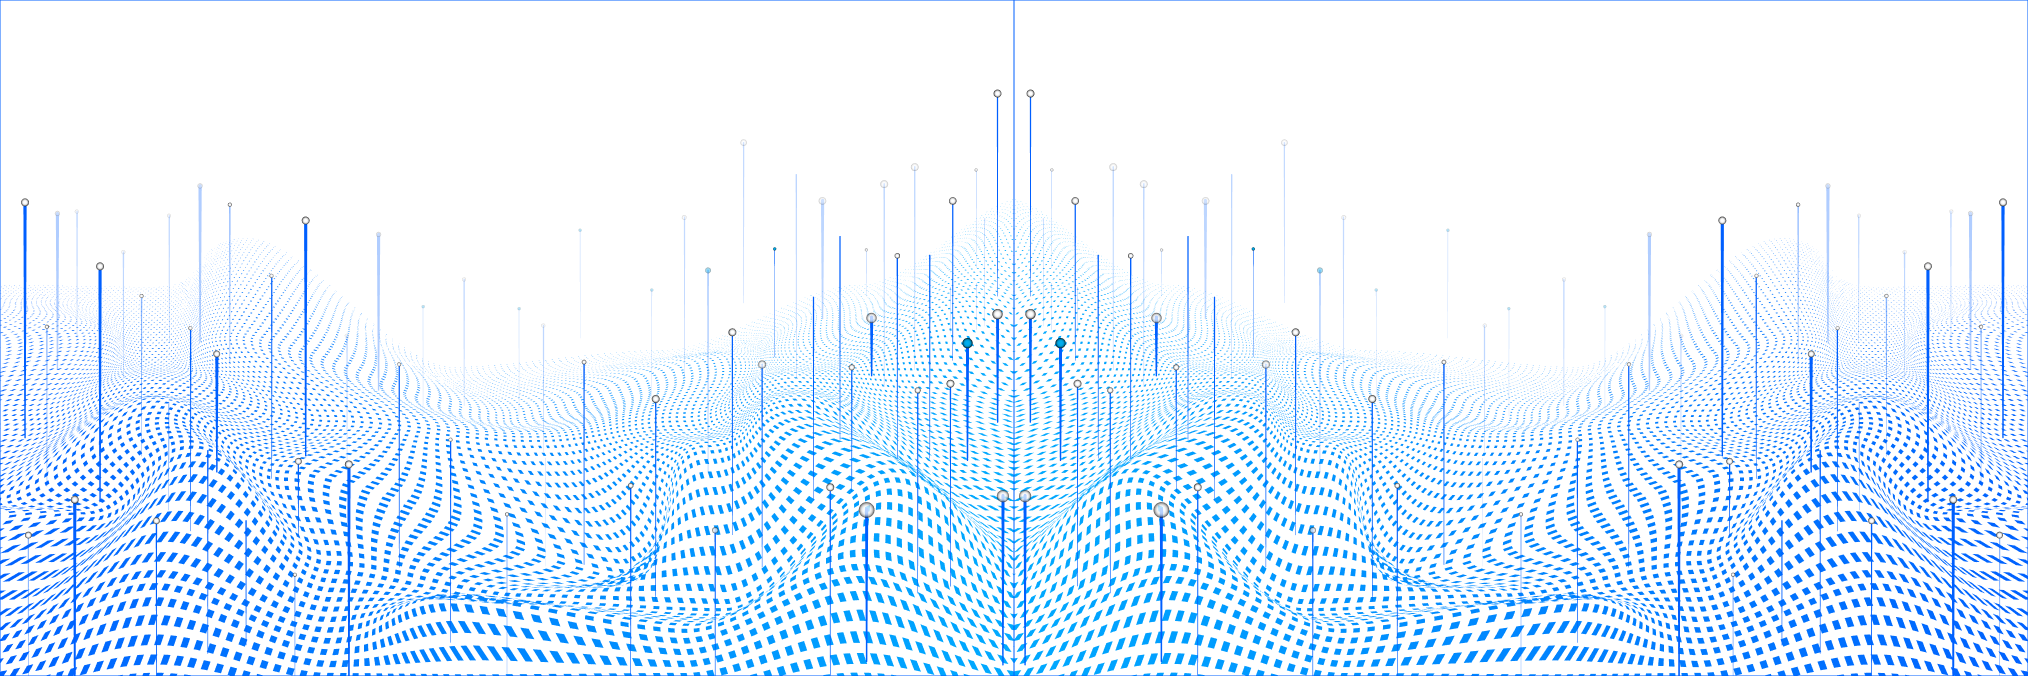
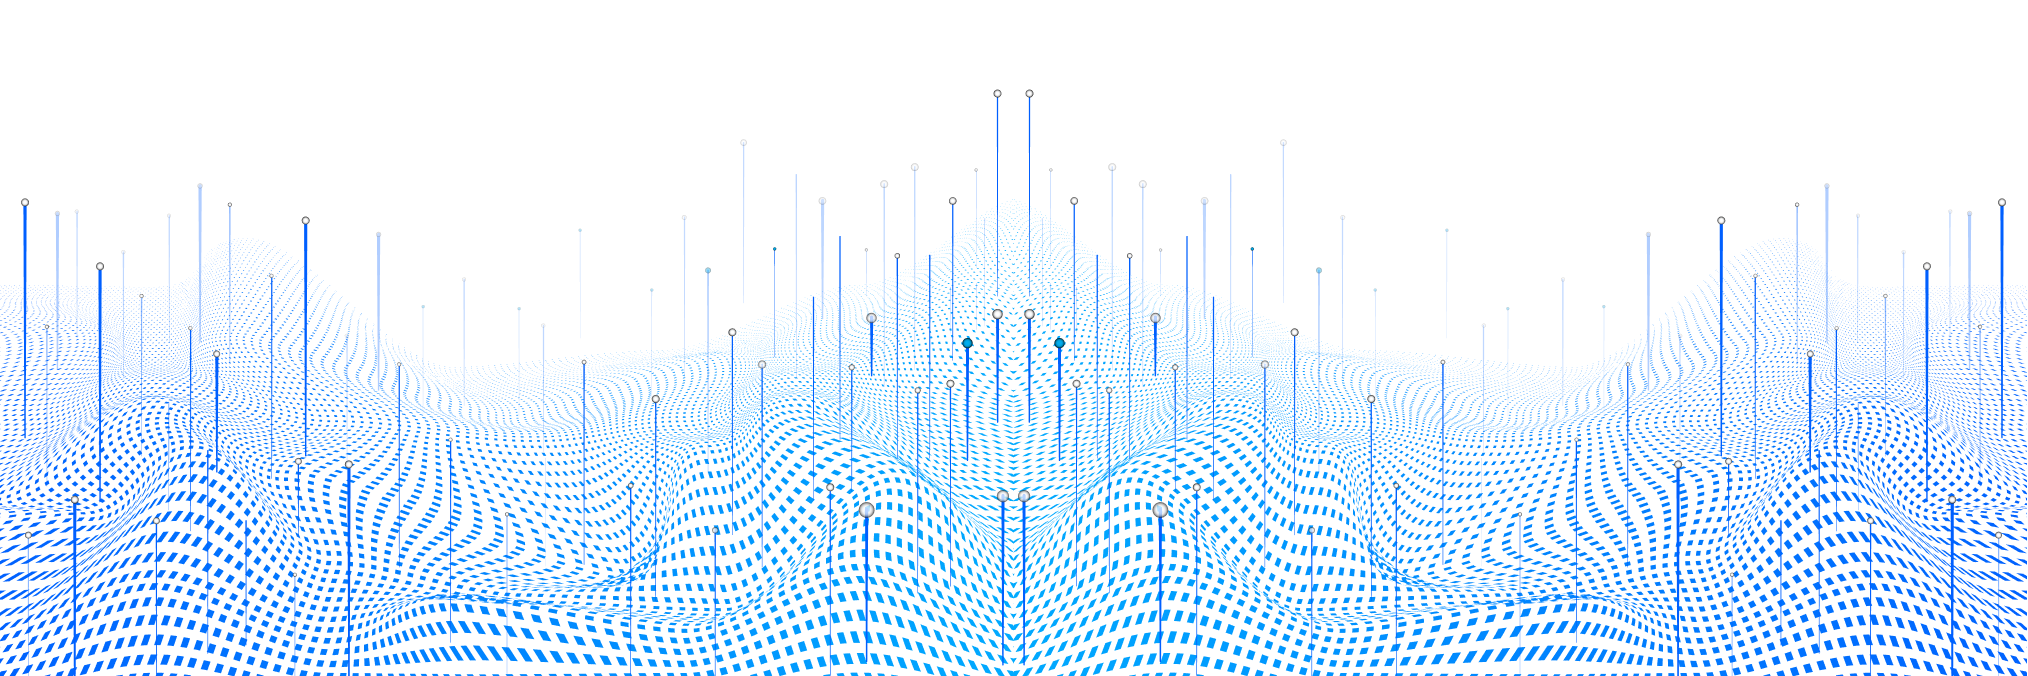
1.修改footer底圖 2.index修改navbar

Changed region(s): [[0.0, 0.2796, 1.0, 1.0], [0.9941, 0.0, 1.0, 0.0311]]

diff --git a/Sass/css/style.css b/Sass/css/style.css
@@ -132,7 +132,7 @@
 }
 
 /*** Navigation ***/
-nav {
+.menu_index_nav {
   display: flex;
   justify-content: space-between;
   padding: 15px;
@@ -147,31 +147,31 @@ nav {
   justify-content: space-between;
 }
 
-nav a {
+.menu_index_nav a {
   text-decoration: none;
   color: #ffffff;
 }
 
-nav .logo_index_nav {
+.menu_index_nav .logo_index_nav {
   line-height: 50px;
   z-index: 1;
 }
 
-nav .loginMb_index_nav {
+.menu_index_nav .loginMb_index_nav {
   display: flex;
   justify-content: center;
   align-items: center;
   display: none;
 }
 
-nav .loginMb_index_nav div {
+.menu_index_nav .loginMb_index_nav div {
   width: 70px;
   height: 70px;
   border-radius: 50%;
   background-color: #0b406d;
 }
 
-nav .member_index_nav {
+.menu_index_nav .member_index_nav {
   border-radius: 50%;
 }
 
@@ -555,6 +555,7 @@ footer nav a::after, footer nav a:first-child::before {
 .body_index_block main .news_index_block,
 .body_index_block main .youtube_index_block {
   text-align: center;
+  margin-bottom: 100px;
 }
 .body_index_block main .article_index_block h1,
 .body_index_block main .news_index_block h1,
@@ -724,6 +725,13 @@ footer nav a::after, footer nav a:first-child::before {
 .body_index_block main .youtube_index_block a {
   background: #d6eeff;
   color: #08171E;
+}
+.body_index_block .footer_index_block {
+  background-image: url("./../../img/index/footer.png");
+  background-repeat: no-repeat;
+  background-size: cover;
+  background-position: center;
+  height: 350px;
 }
 
 .btn_bUser_addUser {

diff --git a/footer.html b/footer.html
@@ -1,14 +1,14 @@
-<footer>
-    <nav>
-        <a href="/p01_news.html">最新消息</a>
-        <a href="/p07_demoShopping.html">DEMO體驗</a>
-        <a href="/p02_teach.html">防範詐騙教學</a>
-        <a href="/p03_reportURL.html">回報可疑網站</a>
-        <a href="/p04_gov.html">政府資訊連結</a>
-        <a href="/p05_faq.html">詐騙FAQ</a>
-        <a href="/p06_discuss.html">討論專區</a>
-        <a href="">團隊介紹</a>
-    </nav>
-    <p>本網站為緯育TibaMe前端設計工程師班第82期第二組學員專題成果作品</p>
-    <p>本平台僅供學習、展示之用</p>
-</footer>
+<!-- <footer> -->
+<div>
+  <a href="/p01_news.html">最新消息</a>
+  <a href="/p07_demoShopping.html">DEMO體驗</a>
+  <a href="/p02_teach.html">防範詐騙教學</a>
+  <a href="/p03_reportURL.html">回報可疑網站</a>
+  <a href="/p04_gov.html">政府資訊連結</a>
+  <a href="/p05_faq.html">詐騙FAQ</a>
+  <a href="/p06_discuss.html">討論專區</a>
+  <a href="">團隊介紹</a>
+</div>
+<p>本網站為緯育TibaMe前端設計工程師班第82期第二組學員專題成果作品</p>
+<p>本平台僅供學習、展示之用</p>
+<!-- </footer> -->

diff --git a/Sass/component/_nav.scss b/Sass/component/_nav.scss
@@ -1,5 +1,5 @@
 /*** Navigation ***/
-nav {
+.menu_index_nav {
   display: flex;
   justify-content: space-between;
   padding: 15px;
@@ -14,31 +14,31 @@ nav {
   justify-content: space-between;
 }
 
-nav a {
+.menu_index_nav a {
   text-decoration: none;
   color: $text_color;
 }
 
-nav .logo_index_nav {
+.menu_index_nav .logo_index_nav {
   line-height: 50px;
   z-index: 1;
 }
 
-nav .loginMb_index_nav {
+.menu_index_nav .loginMb_index_nav {
   display: flex;
   justify-content: center;
   align-items: center;
   display: none;
 }
 
-nav .loginMb_index_nav div {
+.menu_index_nav .loginMb_index_nav div {
   width: 70px;
   height: 70px;
   border-radius: 50%;
   background-color: $btn_hover;
 }
 
-nav .member_index_nav {
+.menu_index_nav .member_index_nav {
   border-radius: 50%;
 }
 

diff --git a/Sass/pages/_index.scss b/Sass/pages/_index.scss
@@ -72,6 +72,7 @@
     .news_index_block,
     .youtube_index_block {
       text-align: center;
+      margin-bottom: 100px;
       h1 {
         color: $title_color;
       }
@@ -188,5 +189,12 @@
         color: $third_color;
       }
     }
+  }
+  .footer_index_block {
+    background-image: url("./../../img/index/footer.png");
+    background-repeat: no-repeat;
+    background-size: cover;
+    background-position: center;
+    height: 350px;
   }
 }

diff --git a/index.html b/index.html
@@ -256,7 +256,7 @@
       <!--Main Block end -->
 
       <!-- Footer -->
-      <footer w3-include-html="./footer.html">
+      <footer w3-include-html="./footer.html" class="footer_index_block">
         <!-- <div>
           <a href="/p01_news.html">最新消息</a>
           <a href="/p07_demoShopping.html">DEMO體驗</a>
